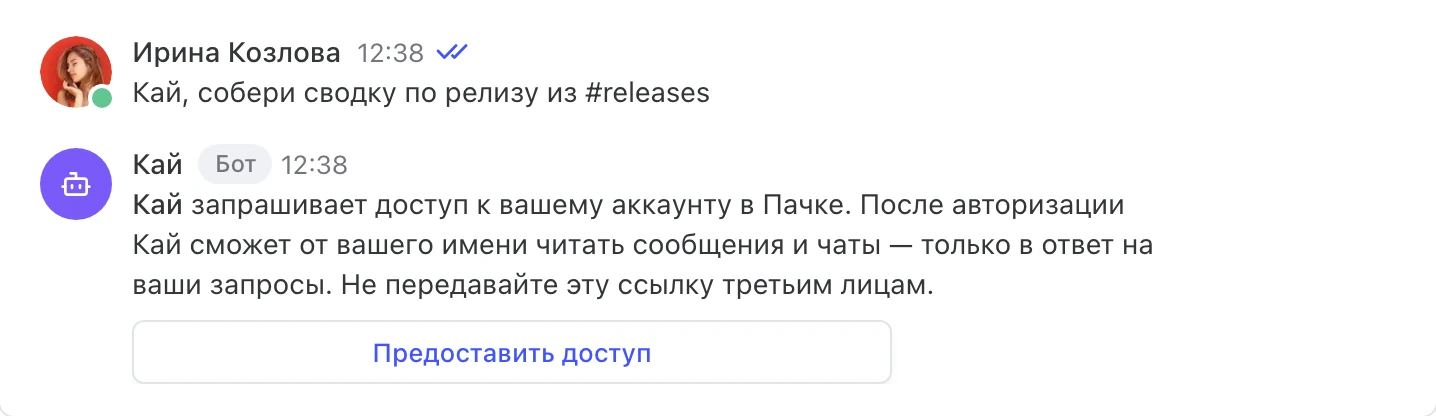
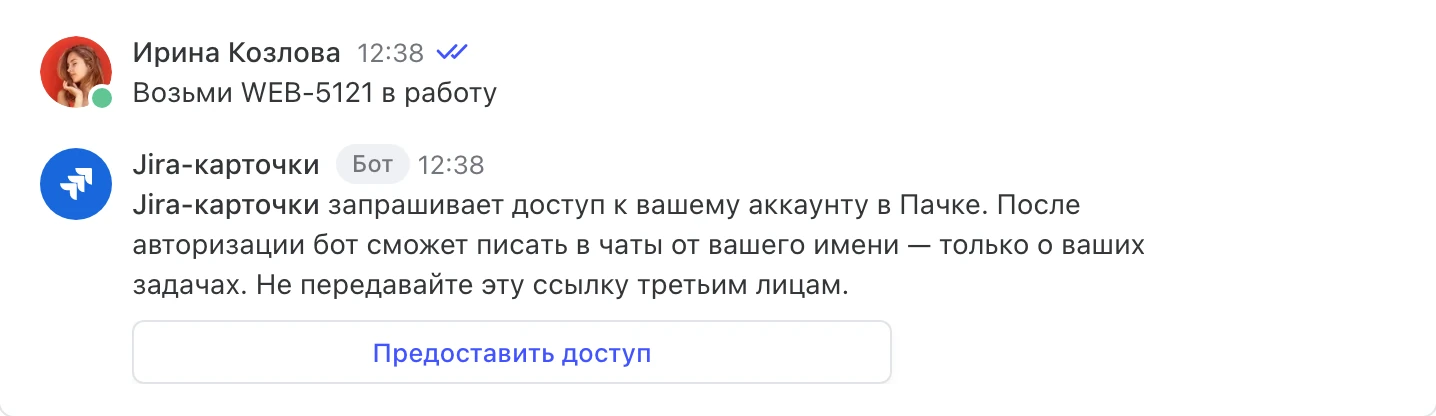
Обзор OAuth: путь сотрудника на боте Jira-карточки
- Шаг «Сотрудник пишет боту»: кадр витрины, бот ещё не подключён
- Шаг «Бот присылает кнопку» и кнопка в «Получении токена» пересняты
  с тем же ботом, что на экране согласия
- Шаг «Бот получает токен»: список «Авторизации» с этим ботом

diff --git a/apps/docs/public/guides/oauth/overview.md b/apps/docs/public/guides/oauth/overview.md
@@ -16,12 +16,16 @@
 
 Находит бота в [витрине](/guides/bots/showcase) или в поиске и пишет ему, например `/start`. Кто может написать боту — в разделе [Доступы к чатам и сообщениям](/guides/bots/access#lichnye-soobscheniya).
 
+![Вкладка «Обзор» раздела «Боты»: карточки ботов «Jira-карточки», «Опросы» и «Календарь отпусков» с создателем и кнопкой «Сообщение»](/images/oauth/showcase_jira.webp)
+
+*Бот в витрине*
+
 
   ### Шаг 2. Бот присылает кнопку
 
 В ответ бот отправляет сообщение с кнопкой авторизации. Кнопка — обычная ссылка на экран согласия.
 
-![Сотрудник пишет боту /start, бот отвечает приветствием и кнопкой «Предоставить доступ»](/images/bots/first_contact.webp)
+![Сотрудник пишет боту «Jira-карточки» /start, бот отвечает приветствием и кнопкой «Предоставить доступ»](/images/bots/first_contact.webp)
 
 *Бот отвечает на /start кнопкой авторизации*
 
@@ -37,7 +41,11 @@
 
   ### Шаг 4. Бот получает токен
 
-Браузер возвращается на адрес вашего сервера с кодом, сервер обменивает код на токен сотрудника. В витрине у бота появляется отметка **Подключено**.
+Браузер возвращается на адрес вашего сервера с кодом, сервер обменивает код на токен сотрудника. Бот появляется у сотрудника в списке **Авторизации** на странице **API**, а в витрине у бота — отметка **Подключено**.
+
+![Список «Авторизации» на странице «API»: боты, дата подключения, последнее использование и число разрешений](/images/oauth/authorizations.webp)
+
+*Бот в списке «Авторизации»*
 
 
 Как собрать кнопку и обменять код — в разделе [Получение токена](/guides/oauth/flow).

diff --git a/apps/docs/public/guides/oauth/flow.md b/apps/docs/public/guides/oauth/flow.md
@@ -72,7 +72,7 @@ https://app.pachca.com/apps/authorize
 
 Отправьте ссылку сотруднику URL-кнопкой в личной переписке с ботом — методом [Новое сообщение](/api/messages/create) с `entity_type: "user"`. Подробнее о кнопках — в разделе [Кнопки в сообщениях](/guides/buttons).
 
-![Бот в ответ на просьбу сотрудника присылает сообщение с кнопкой «Предоставить доступ»](/images/oauth/access_request.webp)
+![Сотрудник просит бота «Jira-карточки» взять задачу в работу, бот присылает сообщение с кнопкой «Предоставить доступ»](/images/oauth/access_request.webp)
 
 *Кнопка авторизации в сообщении бота*
 
